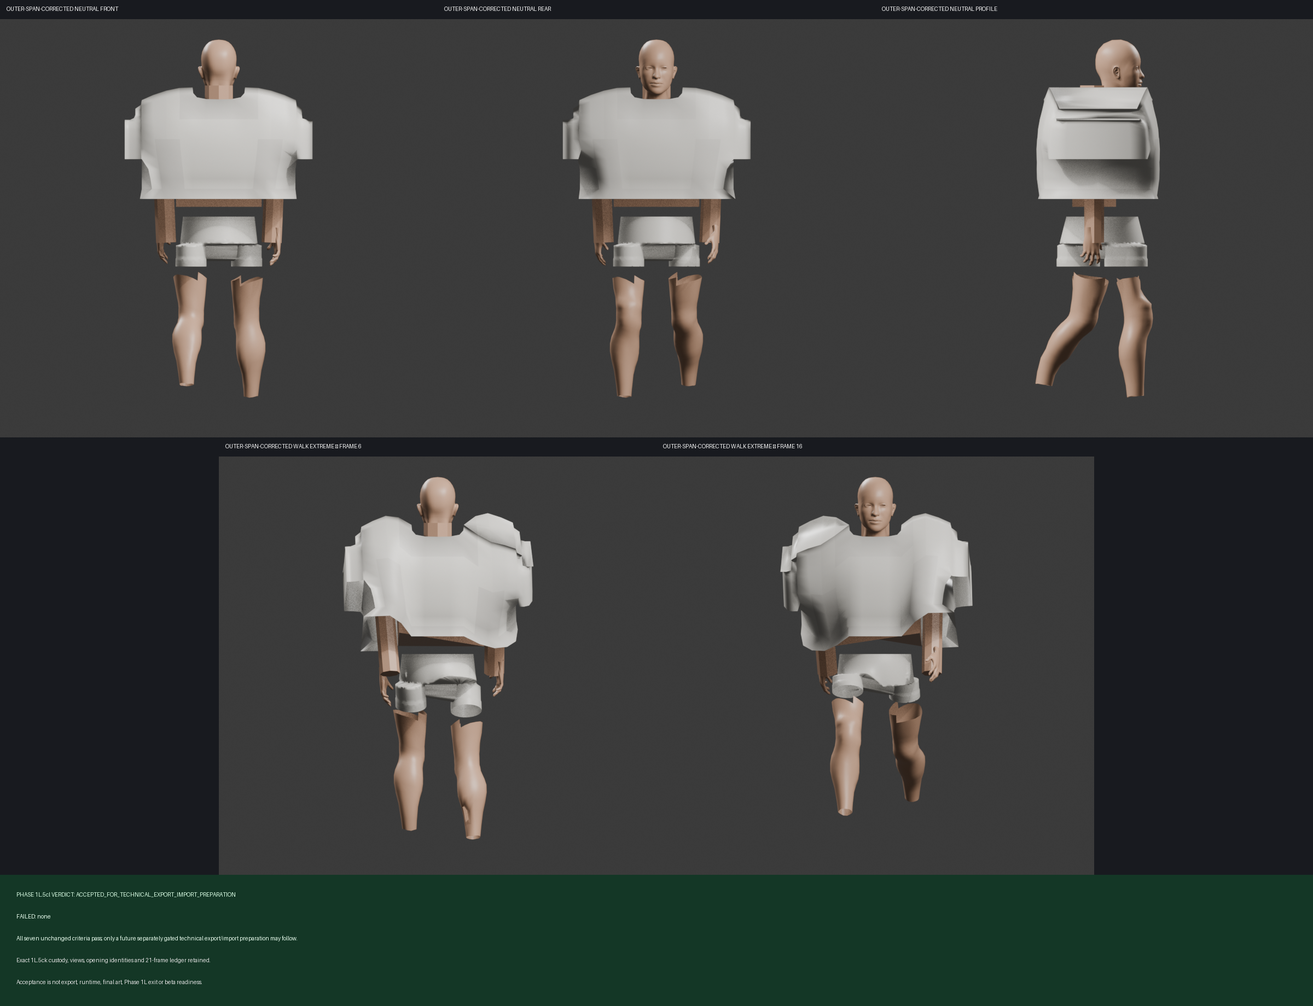
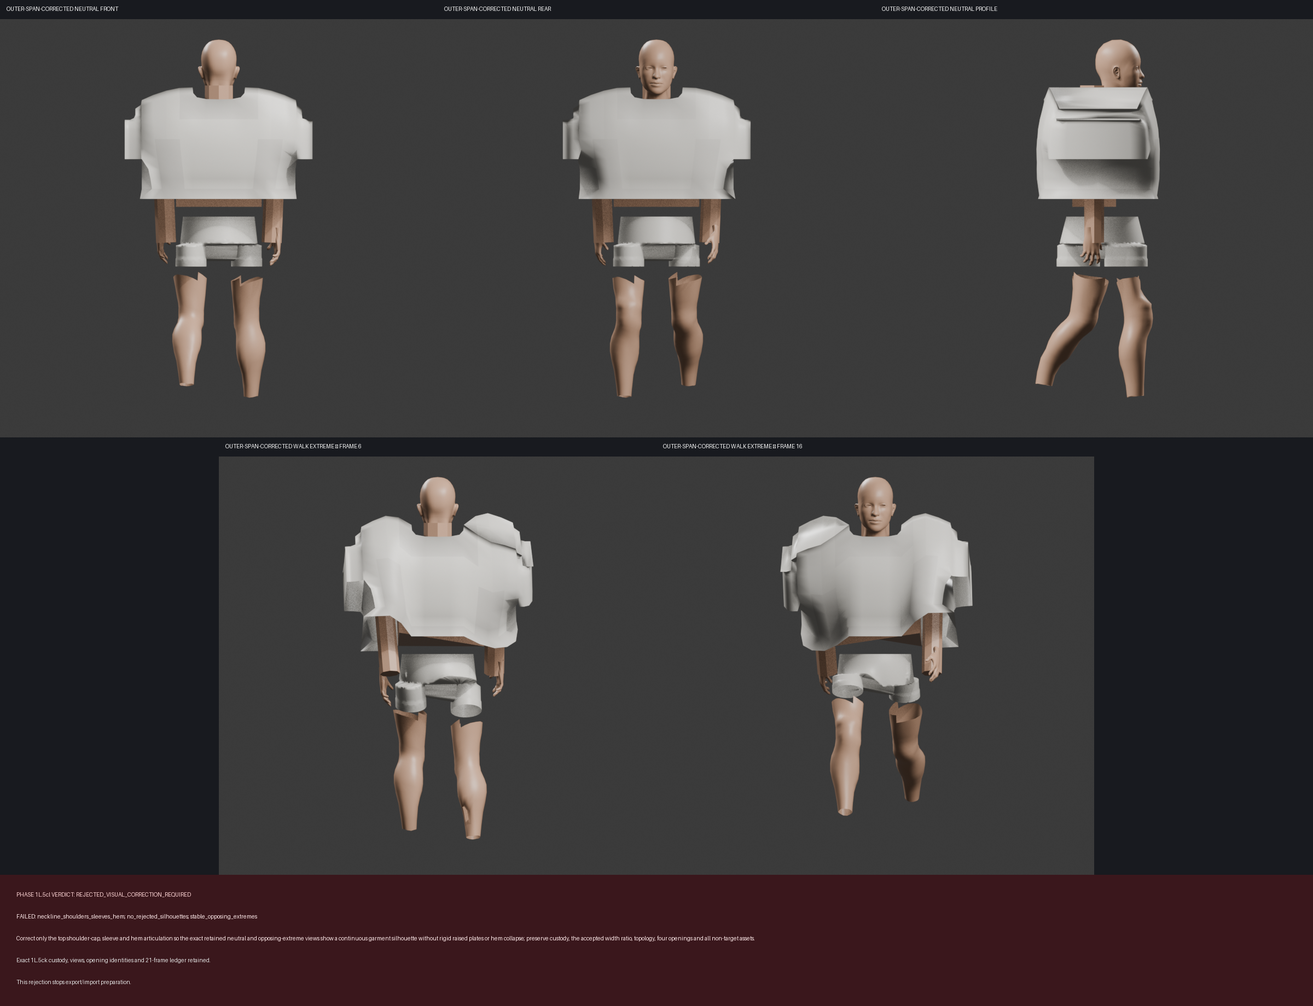
art: fail closed corrected outfit review

Changed region(s): [[0.0, 0.8674, 1.0, 1.0]]

diff --git a/Oddswell/Art/Production/SundaleStreetSlice/OuterSpanCorrectedStarterOutfitVisualAcceptanceReview/build_outer_span_corrected_outfit_visual_review.py b/Oddswell/Art/Production/SundaleStreetSlice/OuterSpanCorrectedStarterOutfitVisualAcceptanceReview/build_outer_span_corrected_outfit_visual_review.py
@@ -30,6 +30,11 @@ EXPECTED = {
 VIEWS = ("Front", "Rear", "Profile", "WalkExtremeFront", "WalkExtremeRear")
 MAXIMUM_TOP_TO_BODY_WIDTH_RATIO = 1.4
 MINIMUM_WAIST_INSET_RATIO = 0.08
+BOUNDED_CORRECTION = (
+    "Correct only the top shoulder-cap, sleeve and hem articulation so the exact retained neutral and "
+    "opposing-extreme views show a continuous garment silhouette without rigid raised plates or hem "
+    "collapse; preserve custody, the accepted width ratio, topology, four openings and all non-target assets."
+)
 
 
 def sha256(path: Path) -> str:
@@ -97,7 +102,38 @@ def measurements(source: dict, waist: dict) -> dict:
     }
 
 
-def criteria(source: dict, measured: dict) -> list[dict]:
+def visual_observations(views: dict) -> dict:
+    """Record the fail-closed human review of the exact custody-checked view set."""
+    return {
+        "view_identity_sha256": identity(views),
+        "neckline_shoulders_sleeves_hem": {
+            "pass": False,
+            "views": ["Front", "Rear", "Profile", "WalkExtremeFront", "WalkExtremeRear"],
+            "evidence": (
+                "The exact views show rigid squared shoulder caps, abrupt sleeve blocks and a hem that "
+                "lifts or folds into disconnected-looking planes at both opposing walk extremes."
+            ),
+        },
+        "no_rejected_silhouettes": {
+            "pass": False,
+            "views": ["Front", "Rear", "Profile", "WalkExtremeFront", "WalkExtremeRear"],
+            "evidence": (
+                "Although the measured width and waist-taper thresholds pass, the neutral profile remains "
+                "slab-like and both walk extremes retain an armor-like, plate-folded top silhouette."
+            ),
+        },
+        "stable_opposing_extremes": {
+            "pass": False,
+            "views": ["WalkExtremeFront", "WalkExtremeRear"],
+            "evidence": (
+                "Mechanical loop and translation checks pass, but frames 6 and 16 do not support "
+                "qualitative garment stability: shoulder caps rise into plates and the hem collapses unevenly."
+            ),
+        },
+    }
+
+
+def criteria(source: dict, measured: dict, observations: dict) -> list[dict]:
     semantic = source["semantic"]
     frames = semantic["deformation"]["frames"]
     zero_overlap = all(all(value == 0 for value in row["intersections"].values()) for row in frames)
@@ -111,33 +147,36 @@ def criteria(source: dict, measured: dict) -> list[dict]:
     status = lambda passed: "PASS" if passed else "FAIL"
     ratio = measured["top_to_body_width_ratio"]
     ratio_limit = measured["maximum_top_to_body_width_ratio"]
-    silhouette_evidence = (
-        f"Waist inset ratio {measured['waist_inset_ratio']:.6f} passes the {measured['minimum_waist_inset_ratio']:.6f} floor and outer width ratio {ratio:.6f} passes the {ratio_limit:.6f} ceiling across neutral and opposing-extreme evidence."
-        if measured["top_contract_pass"] and taper_pass and proportion_pass
-        else f"Waist inset ratio is {measured['waist_inset_ratio']:.6f} and outer width ratio is {ratio:.6f}; at least one unchanged silhouette contract is not met."
-    )
+    neckline = observations["neckline_shoulders_sleeves_hem"]
+    silhouette = observations["no_rejected_silhouettes"]
+    opposing = observations["stable_opposing_extremes"]
+    neckline_pass = measured["top_contract_pass"] and proportion_pass and neckline["pass"]
+    silhouette_pass = measured["top_contract_pass"] and taper_pass and proportion_pass and silhouette["pass"]
+    opposing_pass = stable and opposing["pass"]
     return [
         {"criterion": "separation", "status": status(zero_overlap), "evidence": "The retained 21-frame ledger reports zero body/top, body/bottom and top/bottom evaluated intersections."},
-        {"criterion": "neckline_shoulders_sleeves_hem", "status": status(measured["top_contract_pass"] and proportion_pass), "evidence": f"The exact connected four-opening top and nonempty neckline/shoulder/sleeve/hem roles remain intact; neutral outer width ratio is {ratio:.6f} against the {ratio_limit:.6f} review ceiling."},
+        {"criterion": "neckline_shoulders_sleeves_hem", "status": status(neckline_pass), "evidence": f"The connected four-opening contract and {ratio:.6f} width ratio pass, but visual acceptance fails: {neckline['evidence']}"},
         {"criterion": "waistband_rise_crotch_legs", "status": status(measured["shorts_contract_pass"]), "evidence": "The exact accepted connected shorts retain three openings, zero other non-manifold edges, waistband/rise/crotch evidence and two legs."},
         {"criterion": "proportions", "status": status(proportion_pass), "evidence": f"Neutral top width is {measured['neutral_top_width_m']:.6f} m versus body width {measured['neutral_body_width_m']:.6f} m, ratio {ratio:.6f}; the unchanged review ceiling is {ratio_limit:.6f}."},
-        {"criterion": "no_rejected_silhouettes", "status": status(measured["top_contract_pass"] and taper_pass and proportion_pass), "evidence": silhouette_evidence},
+        {"criterion": "no_rejected_silhouettes", "status": status(silhouette_pass), "evidence": f"Waist inset {measured['waist_inset_ratio']:.6f} and outer width {ratio:.6f} pass their numeric gates, but visual acceptance fails: {silhouette['evidence']}"},
         {"criterion": "no_exposure_or_collision", "status": status(zero_overlap), "evidence": "All five exact views retain coverage and the 21-frame ledger reports zero evaluated intersections."},
-        {"criterion": "stable_opposing_extremes", "status": status(stable), "evidence": "Exact frames 6 and 16 retain coverage; root/armature translation is zero and frame 21 equals frame 1."},
+        {"criterion": "stable_opposing_extremes", "status": status(opposing_pass), "evidence": opposing["evidence"]},
     ]
 
 
 def expected_result(source: dict, waist: dict, views: dict) -> dict:
     measured = measurements(source, waist)
-    checks = criteria(source, measured)
+    observations = visual_observations(views)
+    checks = criteria(source, measured, observations)
     verdict = "ACCEPTED_FOR_TECHNICAL_EXPORT_IMPORT_PREPARATION" if all(row["status"] == "PASS" for row in checks) else "REJECTED_VISUAL_CORRECTION_REQUIRED"
     semantic = source["semantic"]
     result = {
         "phase": "Phase 1L.5cl outer-span-corrected combined starter-outfit offline visual acceptance review",
         "verdict": verdict,
         "criteria": checks,
+        "visual_observations": observations,
         "measurements": measured,
-        "smallest_correction": None,
+        "smallest_correction": None if verdict == "ACCEPTED_FOR_TECHNICAL_EXPORT_IMPORT_PREPARATION" else BOUNDED_CORRECTION,
         "source_custody": {
             "blend": source["files"]["blend"],
             "semantic_identity_sha256": EXPECTED["semantic"],
@@ -151,9 +190,6 @@ def expected_result(source: dict, waist: dict, views: dict) -> dict:
         },
         "boundaries": {"geometry_changed": 0, "weights_changed": 0, "topology_changed": 0, "materials_changed": 0, "action_changed": 0, "skeleton_changed": 0, "export_changed": 0, "unreal_changed": 0, "client_changed": 0, "package_inputs_changed": 0, "runtime_claim": False, "final_art_claim": False, "beta_readiness_claim": False, "future_technical_export_import_preparation_eligible": verdict == "ACCEPTED_FOR_TECHNICAL_EXPORT_IMPORT_PREPARATION"},
     }
-    if verdict == "REJECTED_VISUAL_CORRECTION_REQUIRED":
-        failed = ", ".join(row["criterion"] for row in checks if row["status"] == "FAIL")
-        result["smallest_correction"] = f"Correct only the first failing unchanged criterion: {failed.split(',')[0]}."
     result["identity_sha256"] = identity(result)
     return result
 

diff --git a/Oddswell/Development/Reports/Phase 1L5cl Outer Span Corrected Combined Starter Outfit Offline Visual Acceptance Review.md b/Oddswell/Development/Reports/Phase 1L5cl Outer Span Corrected Combined Starter Outfit Offline Visual Acceptance Review.md
@@ -4,7 +4,7 @@ tags:
   - beta
   - character
   - review
-status: complete-review-accepted-for-future-technical-preparation
+status: complete-review-rejected-visual-correction-required
 date: 2026-09-28
 ---
 
@@ -12,9 +12,9 @@ date: 2026-09-28
 
 ## Outcome
 
-Phase 1L.5cl is complete as an evidence-only review with verdict `ACCEPTED_FOR_TECHNICAL_EXPORT_IMPORT_PREPARATION`. All seven unchanged criteria pass. The verdict is computed from the exact Phase 1L.5ck custody, measurements, views, opening identities and 21-frame ledger; it is not fixed in advance.
+Phase 1L.5cl is complete as an evidence-only review with verdict `REJECTED_VISUAL_CORRECTION_REQUIRED`. The exact custody and numerical geometry gates pass, but the exact retained views fail three unchanged qualitative criteria: neckline/shoulders/sleeves/hem, no rejected silhouettes, and stable opposing extremes. The verdict is derived from the seven criterion statuses rather than fixed in advance.
 
-This acceptance authorizes only consideration of a future separately gated technical export/import preparation phase. It is not an export, import, runtime replacement, final-art approval, Phase 1L exit, beta-readiness, Version 1 readiness or production-readiness determination.
+This rejection stops export/import preparation. It is not an export, import, runtime replacement, final-art approval, Phase 1L exit, beta-readiness, Version 1 readiness or production-readiness determination.
 
 ## Exact custody
 
@@ -35,32 +35,32 @@ Geometry, coordinates, weights, topology, materials, action, skeleton, export, U
 | Criterion | Result | Evidence |
 |---|---|---|
 | Separation | PASS | All `21` retained frames report body/top, body/bottom and top/bottom evaluated intersections `0`. |
-| Neckline / shoulders / sleeves / hem | PASS | The connected four-opening top and all named roles remain intact; neutral outer width ratio is `1.399001` against the unchanged `1.400000` ceiling. |
+| Neckline / shoulders / sleeves / hem | FAIL | The contract and width gate pass, but the exact views show rigid squared shoulder caps, abrupt sleeve blocks and a hem that lifts or folds into disconnected-looking planes at both opposing walk extremes. |
 | Waistband / rise / crotch / legs | PASS | Exact accepted connected shorts retain three openings, zero other non-manifold edges and two legs. |
 | Proportions | PASS | Neutral top width is `0.944818 m` versus body width `0.675352 m`, ratio `1.399001`. |
-| No rejected silhouettes | PASS | Waist inset ratio `0.132244` passes the `0.080000` floor and outer width ratio `1.399001` passes the `1.400000` ceiling across neutral and opposing-extreme evidence. |
+| No rejected silhouettes | FAIL | The numeric taper and width gates pass, but the neutral profile remains slab-like and both extremes retain an armor-like, plate-folded top silhouette. |
 | No exposure or collision | PASS | All five exact views retain coverage and the frame ledger reports zero evaluated intersections. |
-| Stable opposing extremes | PASS | Frames `6` and `16` retain coverage, translations remain zero and frame `21` equals frame `1`. |
+| Stable opposing extremes | FAIL | Mechanical loop and translation checks pass, but frames `6` and `16` do not support qualitative garment stability: shoulder caps rise into plates and the hem collapses unevenly. |
 
-There are no failed criteria and no named correction. `smallest_correction` is `null`.
+The one smallest next correction is top-only shoulder-cap, sleeve and hem articulation sufficient to produce a continuous garment silhouette without rigid raised plates or hem collapse. Exact custody, accepted width ratio, topology, four openings and every non-target asset remain protected.
 
 ## Deterministic evidence
 
[5 lines of base64/hex data omitted]
 
 ## Verification
 
-- Deterministic build and independent validation: PASS; identity `A4B8...CAE1` and board `6334...570C` reproduced.
[1 lines of base64/hex data omitted]
-- Isolated Python regression: PASS, `105/105` (`9 + 2 + 8 + 46 + 40`) in `147.517 s`.
+- Deterministic build and independent validation: PASS; rejection identity `C45B...7B27` and board `23A9...2623` reproduced.
[1 lines of base64/hex data omitted]
+- Isolated Python regression after repair: PASS, `105/105` (`9 + 2 + 8 + 46 + 40`) in `167.842 s`.
[1 lines of base64/hex data omitted]
 - Retained packaged Windows verification: PASS. Locomotion and character-motion markers passed; studio and interaction-prompt-presentation markers passed; camera-orbit passed; shared-city server/client, skeletal appearance and skeletal motion markers passed; every process exited `0` and UDP `17777` was released.
 - Retained package audit: `50` files, `1,038,710,362` bytes, `0` Python files. Final process audit found `0` OddsWell, Unreal Editor or Blender processes.
 
 ## Boundary and next gate
 
-The only newly eligible work is a future separately scoped technical export/import preparation phase. This review itself changes no asset or runtime input and performs no export or import. Fabric, production UVs, LODs, final materials, runtime replacement, performance, hands-on usability, Phase 1L exit and beta readiness remain separate unproven gates.
+Export/import preparation is not eligible. The only bounded next correction is top-only shoulder-cap, sleeve and hem articulation while preserving exact custody, the accepted width ratio, topology, four openings and all non-target assets. This review itself changes no asset or runtime input. Fabric, production UVs, LODs, final materials, runtime replacement, performance, hands-on usability, Phase 1L exit and beta readiness remain separate unproven gates.
 
 See [[Design/Beta Game Bible#Player character]], [[Development/Beta Delivery Roadmap#Phase 1L.5cl outer-span-corrected combined starter-outfit offline visual acceptance review]], [[Development/Reports/Phase 1L5ck Outer Shoulder Sleeve Span Correction Walk Proof]], [[Design/Decisions/DEC-034 Shared Skeleton Player Character Production Candidate]], and [[Design/Decisions/DEC-035 Character Unreal Bone Name Mapping]].

diff --git a/Oddswell/Design/Beta Game Bible.md b/Oddswell/Design/Beta Game Bible.md
@@ -683,5 +683,5 @@ Before proposing a phase, the Scope Director must:
 - **2026-09-28 / Phase 1L.5ci:** one repaired additive derivative applies only the 1L.5ch lateral waist-taper correction. It changes only the `X` coordinate of `108` central front/rear top vertices while all other `390` top coordinates plus every `Y` and `Z` coordinate remain exact. All `72` exact source opening-boundary vertices are protected, including all `48` inherited protected indices; both target-overlap counts are `0`, and source-versus-derived four-opening geometry is exactly equal. Shoulders, sleeves, accepted depth taper, body, shorts, topology, weights, materials, DEC-035 and `walk_candidate_v1` remain unchanged; every frame `1–21` retains zero evaluated body/top and top/bottom intersections. Before/after neutral and walk-extreme evidence shows the monotonic lateral taper, but this phase deliberately issues no visual-acceptance verdict. The combined outfit review must run again before any export/import preparation. See [[Development/Reports/Phase 1L5ci Central Front Rear Lateral Waist Taper Correction Walk Proof]].
 - **2026-09-28 / Phase 1L.5cj:** the fail-closed combined review reruns the exact unchanged seven criteria against repaired Phase 1L.5ci custody and changes no asset or runtime input. Separation, shorts construction, coverage/collision and walk stability pass. The verdict is `REJECTED_VISUAL_CORRECTION_REQUIRED`: waist inset ratio `0.132244` passes the `0.080000` floor, but neutral top width `1.000800 m` versus body width `0.675352 m` yields ratio `1.481894`, above the `1.400000` review ceiling, so neckline/shoulder/sleeve/hem continuity, proportions and no rejected silhouettes fail. The one smallest next correction is only the preserved outer shoulder/sleeve span, retaining the central depth/waist taper and every non-target identity. Export/import preparation remains stopped; no runtime, final-art, Phase 1L exit or beta-readiness claim is made. See [[Development/Reports/Phase 1L5cj Waist Tapered Combined Starter Outfit Offline Visual Acceptance Review]].
 - **2026-09-28 / Phase 1L.5ck:** one additive derivative applies only the 1L.5cj outer shoulder/sleeve-span correction. It changes only `X` on `152` outer vertices; all `346` protected coordinates, every `Y`/`Z`, and the accepted central depth/waist taper coordinates remain exact. Top/body neutral width ratio falls from `1.481894083` to `1.398999964`, satisfying the `≤1.4` measured gate. Exactly `18` arm-opening boundary vertices change; waist/neckline geometry and the one-component/four-opening/zero-other-non-manifold contract remain intact. Body, shorts, weights, materials, DEC-035 and `walk_candidate_v1` remain unchanged; every frame `1–21` retains zero evaluated body/top and top/bottom intersections. This correction issues no visual-acceptance verdict. The unchanged combined outfit review must run again before export/import preparation. See [[Development/Reports/Phase 1L5ck Outer Shoulder Sleeve Span Correction Walk Proof]].
-- **2026-09-28 / Phase 1L.5cl:** the fail-closed combined review reruns the exact unchanged seven criteria against Phase 1L.5ck custody and changes no asset or runtime input. All seven pass: separation, neckline/shoulders/sleeves/hem, shorts construction, proportions, no rejected silhouettes, coverage/collision and walk stability. Neutral top/body width ratio `1.399001` passes the `1.400000` ceiling and waist inset ratio `0.132244` passes the `0.080000` floor. Verdict is `ACCEPTED_FOR_TECHNICAL_EXPORT_IMPORT_PREPARATION`, which authorizes only a future separately gated preparation phase. It is not export, import, runtime replacement, final-art approval, Phase 1L exit, beta readiness, Version 1 readiness or production readiness. See [[Development/Reports/Phase 1L5cl Outer Span Corrected Combined Starter Outfit Offline Visual Acceptance Review]].
+- **2026-09-28 / Phase 1L.5cl:** the fail-closed combined review reruns the exact unchanged seven criteria against Phase 1L.5ck custody and changes no asset or runtime input. Separation, shorts construction, numeric proportions and coverage/collision pass, but the exact views fail neckline/shoulders/sleeves/hem, no rejected silhouettes and qualitative opposing-extreme stability: the top retains rigid raised shoulder plates, abrupt sleeve blocks, a slab-like profile and uneven hem collapse. Verdict is `REJECTED_VISUAL_CORRECTION_REQUIRED`. The one smallest next correction is top-only shoulder-cap, sleeve and hem articulation while preserving exact custody, the accepted `1.399001` width ratio, topology, four openings and every non-target asset. Export/import preparation remains stopped; there is no runtime, final-art, Phase 1L exit or readiness claim. See [[Development/Reports/Phase 1L5cl Outer Span Corrected Combined Starter Outfit Offline Visual Acceptance Review]].
 - Phase 1H.26V freezes the design-only consumer authority boundary in [[Design/Decisions/DEC-019 Private Local Execution Supervisor Boundary]]: local-beta engineering may later prove one separate, explicit, one-shot trusted development supervisor with fixed private directories, an absolute allowlisted interpreter, existing `phase1h.execution`, one atomic commitment-keyed attempt, a `120`-second timeout, bounded private logs, and fail-closed no-repair behavior. Bundled or client-spawned Python is rejected; a trusted backend worker is deferred. No supervisor, process, receipt, service, backend, runtime behavior, or H26J-H26P automation is implemented. See [[Development/Reports/Phase 1H26V Private Execution Consumer Authority Review]].

diff --git a/Oddswell/Development/Beta Delivery Roadmap.md b/Oddswell/Development/Beta Delivery Roadmap.md
@@ -1622,7 +1622,7 @@ Layer 2 removes only Debug, NonUFS, UFS, game-executable, and game-PDB cross-run
 
 ### Phase 1L.5cl outer-span-corrected combined starter-outfit offline visual acceptance review
 
-**`COMPLETE REVIEW — ACCEPTED_FOR_TECHNICAL_EXPORT_IMPORT_PREPARATION; NO EXPORT/IMPORT OR READINESS CLAIM`.** An evidence-only deterministic board preserves exact Phase 1L.5ck body `F340...F03CD`, top `4D29...9FBE`, shorts `E626...2170`, semantic identity `BB7B...8F18`, opening identities, DEC-035, action `7DD9...E1020`, five view hashes and 21-frame ledger; asset and runtime-input changes are `0`. All seven unchanged criteria pass. Neutral top/body width ratio `1.399001` is at or below the unchanged `1.400000` ceiling; waist inset ratio `0.132244` is at or above the `0.080000` floor; topology/roles, shorts construction, coverage/collision and opposing-extreme stability pass. Review identity `A4B8...CAE1` and board `6334...570C` reproduce. This acceptance authorizes only a future separately gated technical export/import preparation phase. No export, import, runtime replacement, final-art approval, Phase 1L exit, beta-readiness, Version 1 readiness or production-readiness claim follows. See [[Development/Reports/Phase 1L5cl Outer Span Corrected Combined Starter Outfit Offline Visual Acceptance Review]].
+**`COMPLETE REVIEW — REJECTED_VISUAL_CORRECTION_REQUIRED; EXPORT/IMPORT PREPARATION STOPPED`.** An evidence-only deterministic board preserves exact Phase 1L.5ck body `F340...F03CD`, top `4D29...9FBE`, shorts `E626...2170`, semantic identity `BB7B...8F18`, opening identities, DEC-035, action `7DD9...E1020`, five view hashes and 21-frame ledger; asset and runtime-input changes are `0`. Numeric width `1.399001 ≤ 1.400000` and waist inset `0.132244 ≥ 0.080000` pass, as do separation, shorts construction, numeric proportions and coverage/collision. The exact views nevertheless fail neckline/shoulders/sleeves/hem, no rejected silhouettes and qualitative opposing-extreme stability because the top retains rigid shoulder plates, abrupt sleeve blocks, a slab-like profile and uneven hem collapse. Rejection identity `C45B...7B27` and board `23A9...2623` reproduce. The one smallest correction is top-only shoulder-cap, sleeve and hem articulation while preserving custody, the accepted ratio, topology, four openings and all non-target assets. Export/import preparation remains stopped; no runtime, final-art, Phase 1L exit or readiness claim follows. See [[Development/Reports/Phase 1L5cl Outer Span Corrected Combined Starter Outfit Offline Visual Acceptance Review]].
 
 ### Exit evidence
 

diff --git a/Oddswell/Development/Current Plan.md b/Oddswell/Development/Current Plan.md
@@ -3039,10 +3039,10 @@ The preserved Phase 1L.5aq report identity is `4,027` bytes/SHA `3E14CFABBD0FC4C
 
 ### Phase 1L.5cl outer-span-corrected combined outfit review status
 
[1 lines of base64/hex data omitted]
-- **All seven pass:** separation; neckline/shoulders/sleeves/hem; waistband/rise/crotch/legs; proportions; no rejected silhouettes; no exposure/collision; stable opposing extremes.
-- **Measured gate:** neutral top/body width ratio is `1.399001 ≤ 1.400000`; waist inset ratio is `0.132244 ≥ 0.080000`.
-- **Next gate boundary:** only a future separately scoped technical export/import preparation phase is eligible. This review performs no export/import, runtime replacement, final-art approval, Phase 1L exit or beta-readiness determination. See [[Development/Reports/Phase 1L5cl Outer Span Corrected Combined Starter Outfit Offline Visual Acceptance Review]].
[1 lines of base64/hex data omitted]
+- **Four pass / three fail:** separation, shorts construction, numeric proportions and no exposure/collision pass. Neckline/shoulders/sleeves/hem, no rejected silhouettes and qualitative opposing-extreme stability fail on the exact views.
+- **Measured gate:** neutral top/body width ratio is `1.399001 ≤ 1.400000`; waist inset ratio is `0.132244 ≥ 0.080000`, but numeric gates do not override the rigid shoulder plates, abrupt sleeve blocks, slab-like profile and uneven hem collapse.
+- **Next gate boundary:** export/import preparation remains stopped. The one smallest correction is top-only shoulder-cap, sleeve and hem articulation while preserving custody, accepted ratio, topology, four openings and all non-target assets. No runtime, final-art, Phase 1L exit or readiness claim is made. See [[Development/Reports/Phase 1L5cl Outer Span Corrected Combined Starter Outfit Offline Visual Acceptance Review]].
 
 ### Sundale visual human body pose candidate — September 23, 2026
 

diff --git a/Oddswell/Art/Production/SundaleStreetSlice/OuterSpanCorrectedStarterOutfitVisualAcceptanceReview/PROVENANCE.md b/Oddswell/Art/Production/SundaleStreetSlice/OuterSpanCorrectedStarterOutfitVisualAcceptanceReview/PROVENANCE.md
@@ -2,6 +2,6 @@
 
 - Evidence-only derivative of exact Phase 1L.5ck custody.
 - Reuses exact neutral front/rear/profile and opposing walk-extreme views, opening identities, and retained 21-frame deformation ledger.
-- Reruns the unchanged seven combined-outfit criteria from measured evidence; the verdict is derived from all seven statuses rather than fixed.
+- Reruns the unchanged seven combined-outfit criteria from measured evidence plus a fail-closed human inspection keyed to the five exact custody-checked views; the verdict is derived from all seven statuses rather than fixed.
 - Changes no mesh, coordinate, topology, weight, material, action, skeleton, export, Unreal, client, package, or runtime input.
-- Acceptance authorizes only a future separately gated technical export/import preparation phase; it is not export, runtime replacement, final art, Phase 1L exit, beta readiness, Version 1 readiness, or production readiness.
+- The exact views fail shoulder/sleeve/hem continuity, rejected-silhouette and qualitative opposing-extreme stability checks. Export/import preparation remains stopped; no runtime, final-art, Phase 1L exit, beta-readiness, Version 1 readiness, or production-readiness claim follows.
